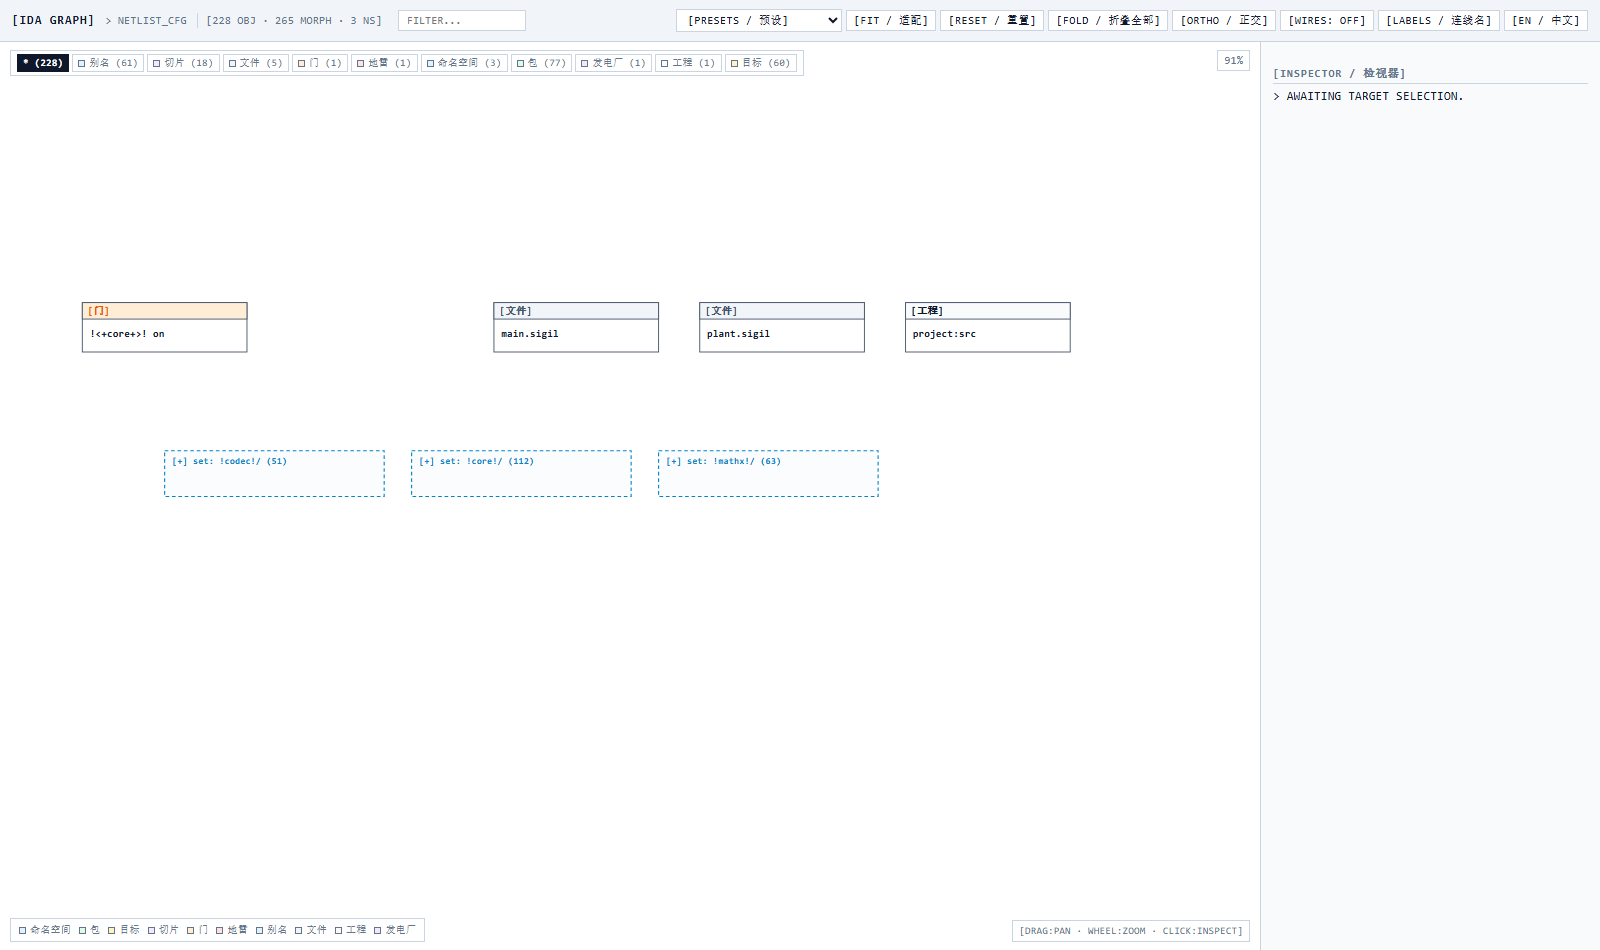
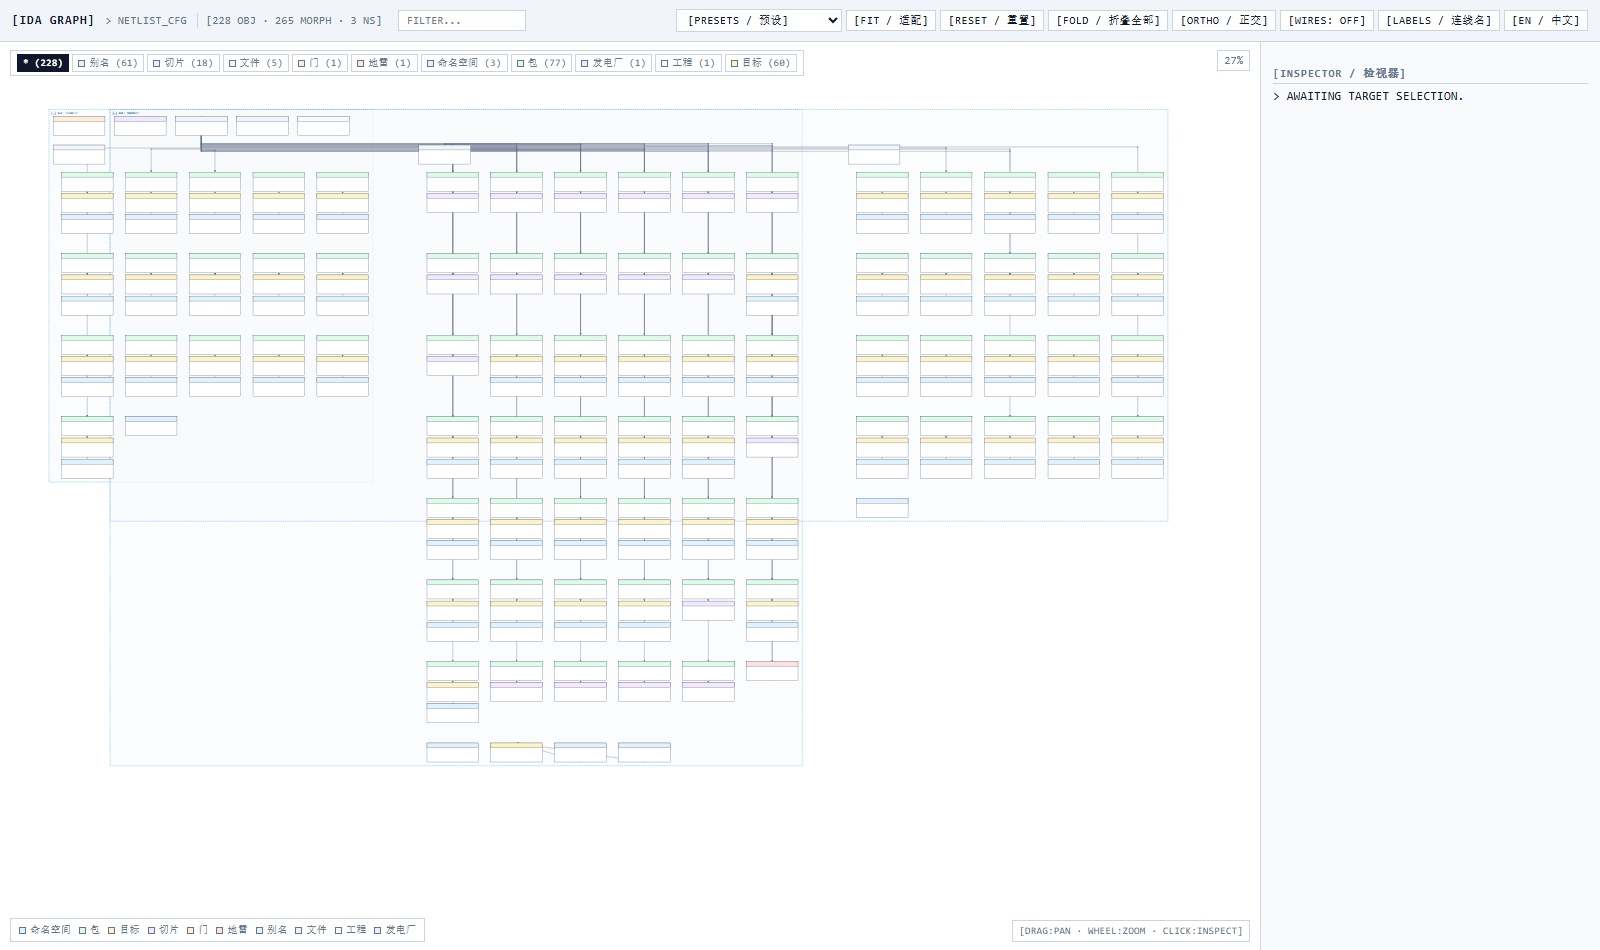
docs: search, double-click fold and node refs in latest graph
Default the large graph to fully expanded. Add search auto-expansion and
Enter-to-focus, double-click folding on frames and nodes, and per-box
incoming-reference / outgoing-target lines. Keep the compact namespace-cell
layout, structural-edge toggle and top-bus routing.

Changed region(s): [[0.0312, 0.1221, 0.75, 0.4884], [0.25, 0.2442, 0.5, 0.7937], [0.5312, 0.5189, 0.5625, 0.5495]]

diff --git a/docs/netgraph-latest.html b/docs/netgraph-latest.html
@@ -57,7 +57,7 @@ button:hover,select:hover{background:var(--panel-bar);border-color:var(--line-da
 <header>
   <b>[IDA GRAPH]</b><span class="prompt">&gt; NETLIST_CFG</span><span class="stat" id="stats"></span>
   <div class="search-box">
-    <input id="search-input" type="text" placeholder="FILTER..." spellcheck="false">
+    <input id="search-input" type="text" placeholder="SEARCH / 搜索..." spellcheck="false">
     <button class="clear-btn" id="search-clear">[X]</button><span class="match-badge" id="search-count"></span>
   </div>
   <div id="toolbar">
@@ -101,13 +101,13 @@ const I18N = {
   zh: {
     inspector: "[INSPECTOR / 检视器]", egress: ">> 出度 (OUT)", ingress: "<< 入度 (IN)", none: "(无)",
     center: "[对焦居中]", copyRef: "[复制引用]", copied: "[已复制]", endpoints: "[连线端点]", source: "起点", target: "终点", morphism: "态射 (Morphism)",
-    hint: "[鼠标拖拽:平移 · 滚轮:缩放 · 点击框头:折叠/展开]",
+    hint: "[鼠标拖拽:平移 · 滚轮:缩放 · 双击框/节点:折叠/展开]",
     kinds: {namespace:"命名空间",package:"包",target:"目标",field:"切片",group:"组",gate:"门",landmine:"地雷",slot:"槽",alias:"别名",file:"文件",project:"工程",plant:"发电厂"}
   },
   en: {
     inspector: "[OBJECT INSPECTOR]", egress: ">> EGRESS (OUT)", ingress: "<< INGRESS (IN)", none: "(NONE)",
     center: "[CENTER]", copyRef: "[COPY REF]", copied: "[COPIED]", endpoints: "[ENDPOINTS]", source: "SOURCE", target: "TARGET", morphism: "MORPHISM",
-    hint: "[DRAG:PAN · WHEEL:ZOOM · CLICK HEADER:FOLD/EXPAND]",
+    hint: "[DRAG:PAN · WHEEL:ZOOM · DOUBLE-CLICK FRAME/NODE:FOLD/EXPAND]",
     kinds: {namespace:"NAMESPACE",package:"PACKAGE",target:"TARGET",field:"SLICE",group:"GROUP",gate:"GATE",landmine:"LANDMINE",slot:"SLOT",alias:"ALIAS",file:"FILE",project:"PROJECT",plant:"PLANT"}
   }
 };
@@ -184,20 +184,20 @@ function initLayout(){
     members.filter(n=>!used.has(n.id) && !["file","package"].includes(n.kind))
       .sort((a,b)=>a.label.localeCompare(b.label)).forEach(n=>cells.push([n]));
     const cols = Math.min(6, Math.max(4, Math.ceil(Math.sqrt(Math.max(cells.length,1)))));
-    const cellW=235, cellH=270;
+    const cellW=235, cellH=300;
     let y=160;
     files.forEach((n,i)=>{n.x=cursorX+80+i*210;n.y=y;});
     y += files.length ? 100 : 0;
     const gridTop=y;
     cells.forEach((cell,idx)=>{
       const c=idx%cols,r=Math.floor(idx/cols);
-      cell.forEach((n,k)=>{n.x=cursorX+110+c*cellW;n.y=gridTop+r*cellH+k*60;});
+      cell.forEach((n,k)=>{n.x=cursorX+110+c*cellW;n.y=gridTop+r*cellH+k*78;});
     });
     collapsedAnchors.set(`ns:${ns}`, {x:160+nsList.indexOf(ns)*270, y:190});
     cursorX += cols*cellW + 170;
   });
 }
-function shapeFor(kind){return {w:180,h:54,hdr:18};}
+function shapeFor(kind){return {w:190,h:70,hdr:18};}
 const proj=n=>({x:n.x,y:n.y});
 function addVia(x,y){const c=document.createElementNS("http://www.w3.org/2000/svg","circle");c.classList.add("via");c.setAttribute("cx",x);c.setAttribute("cy",y);c.setAttribute("r",2.5);frames.append(c);}
 function frameFor(kind,title,members,color,key){
@@ -227,7 +227,8 @@ function frameFor(kind,title,members,color,key){
       if(collapsedSets.has(key)) collapsedSets.delete(key); else collapsedSets.add(key);
       draw();fit();
     };
-    bg.onclick = toggle; r.onclick = toggle; t.onclick = toggle;
+    bg.ondblclick = toggle; r.ondblclick = toggle; t.ondblclick = toggle;
+    bg.title = "double-click to fold"; r.title = "double-click to fold"; t.title = "double-click to fold";
   }
   frames.append(bg, r, t);
 }
@@ -256,7 +257,14 @@ function buildGraph(data){
     const hdr=document.createElementNS("http://www.w3.org/2000/svg","rect");hdr.classList.add("node-header");hdr.setAttribute("width",sh.w);hdr.setAttribute("height",sh.hdr);hdr.setAttribute("fill",KIND_HEADER[n.kind]||"#f1f5f9");
     const th=document.createElementNS("http://www.w3.org/2000/svg","text");th.setAttribute("x",6);th.setAttribute("y",13);th.setAttribute("fill",KIND_COLOR[n.kind]||"#334155");th.setAttribute("font-size","9");th.setAttribute("font-weight","700");th.textContent=`[${(t[n.kind]||n.kind).toUpperCase()}]`;
     const tb=document.createElementNS("http://www.w3.org/2000/svg","text");tb.setAttribute("x",8);tb.setAttribute("y",38);tb.setAttribute("fill","#0f172a");tb.setAttribute("font-size","11");tb.setAttribute("font-weight","600");tb.textContent=n.label.length>22?n.label.slice(0,21)+"…":n.label;
-    g.append(box,hdr,th,tb);nodeLayer.append(g);nodeEls.set(n.id,g);
+    const shortRef = id => {const m=byId.get(id);const s=m?m.label:id;return s.length>15?s.slice(0,14)+"…":s;};
+    const ins = edges.filter(e=>e.target===n.id && !STRUCTURAL.has(e.kind)).map(e=>shortRef(e.source));
+    const outs = edges.filter(e=>e.source===n.id && !STRUCTURAL.has(e.kind)).map(e=>shortRef(e.target));
+    const lineIn = "← " + (ins.length ? [...new Set(ins)].slice(0,2).join(",")+(ins.length>2?` +${ins.length-2}`:"") : "—");
+    const lineOut = "→ " + (outs.length ? [...new Set(outs)].slice(0,2).join(",")+(outs.length>2?` +${outs.length-2}`:"") : "—");
+    const ti=document.createElementNS("http://www.w3.org/2000/svg","text");ti.setAttribute("x",8);ti.setAttribute("y",53);ti.setAttribute("fill","#64748b");ti.setAttribute("font-size","8");ti.textContent=lineIn;
+    const to=document.createElementNS("http://www.w3.org/2000/svg","text");to.setAttribute("x",8);to.setAttribute("y",65);to.setAttribute("fill","#475569");to.setAttribute("font-size","8");to.textContent=lineOut;
+    g.append(box,hdr,th,tb,ti,to);g.setAttribute("title",lineIn+"  "+lineOut);nodeLayer.append(g);nodeEls.set(n.id,g);
   });
   edges.forEach((e,i)=>{
     const p=document.createElementNS("http://www.w3.org/2000/svg","path");p.classList.add("edge");p.dataset.idx=i;p.setAttribute("marker-end","url(#arrow)");p.setAttribute("stroke",EDGE_COLOR[e.kind]||"#64748b");
@@ -266,7 +274,6 @@ function buildGraph(data){
   const legend=document.getElementById("legend");
   Object.keys(I18N[lang].kinds).forEach(k=>{if(!nodes.some(n=>n.kind===k))return;const s=document.createElement("span");s.innerHTML=`<i class="dot" style="background:${KIND_HEADER[k]}"></i>${t[k]||k}`;legend.append(s);});
   renderKindFilters();initLayout();
-  if(nodes.length>80){collapsedSets.clear();(GRAPH.namespaces||[]).forEach(ns=>collapsedSets.add(`ns:${ns}`));}
   draw();fit();startWind();
 }
 function draw(){
@@ -393,11 +400,17 @@ function toggleSection(id){
   btn.textContent = isC ? "[+]" : "[-]";
 }
 nodeLayer.addEventListener("click",ev=>{const g=ev.target.closest(".node");if(g)select(g.dataset.id);});
+nodeLayer.addEventListener("dblclick",ev=>{const g=ev.target.closest(".node");if(!g)return;const n=byId.get(g.dataset.id);const ns=n&&nsOfNode(n);if(ns){const k=`ns:${ns}`;if(collapsedSets.has(k))collapsedSets.delete(k);else collapsedSets.add(k);draw();fit();}});
 edgeLayer.addEventListener("click",ev=>{
   const p=ev.target.closest(".edge");if(!p)return;const {e}=edgeEls[+p.dataset.idx];const t=I18N[lang];
   panel.innerHTML=`<div class="label">${t.morphism}</div><div class="kind">[${esc(e.kind)}] · ${esc(e.label)}</div><h2><span>${t.endpoints}</span></h2><ul><li onclick="focusNode('${esc(e.source)}')"><b>${t.source}</b> ${esc(e.source)}</li><li onclick="focusNode('${esc(e.target)}')"><b>${t.target}</b> ${esc(e.target)}</li></ul>`;
 });
-const searchInput=document.getElementById("search-input");searchInput.addEventListener("input",e=>{searchQuery=e.target.value;updateFilterDisplay();});document.getElementById("search-clear").onclick=()=>{searchInput.value="";searchQuery="";updateFilterDisplay();};
+const searchInput=document.getElementById("search-input");
+function searchHits(){const q=searchQuery.toLowerCase().trim();return q?nodes.filter(n=>n.label.toLowerCase().includes(q)||n.id.toLowerCase().includes(q)):[];}
+function expandSearchHits(){searchHits().forEach(n=>{const ns=nsOfNode(n);if(ns)collapsedSets.delete(`ns:${ns}`);});}
+searchInput.addEventListener("input",e=>{searchQuery=e.target.value;if(searchQuery.trim()){expandSearchHits();draw();fit();}updateFilterDisplay();});
+searchInput.addEventListener("keydown",e=>{if(e.key==="Enter"){const hit=searchHits()[0];if(hit)focusNode(hit.id);}if(e.key==="Escape"){searchInput.value="";searchQuery="";updateFilterDisplay();}});
+document.getElementById("search-clear").onclick=()=>{searchInput.value="";searchQuery="";updateFilterDisplay();};
 drop.addEventListener("dragover",ev=>{ev.preventDefault();drop.classList.add("hot");});drop.addEventListener("dragleave",()=>drop.classList.remove("hot"));window.addEventListener("dragover",ev=>{ev.preventDefault();drop.classList.add("hot");});
 window.addEventListener("drop",async ev=>{ev.preventDefault();drop.classList.remove("hot");const file=ev.dataTransfer.files&&ev.dataTransfer.files[0];if(!file)return;try{const data=JSON.parse(await file.text());collapsedSets.clear();buildGraph(data);drop.style.display="none";}catch(err){drop.classList.add("hot");drop.querySelector(".box").innerHTML=`[ DROP_ERR ]<br><small>${esc(err.message)}</small>`;}});
 function startWind(){}
